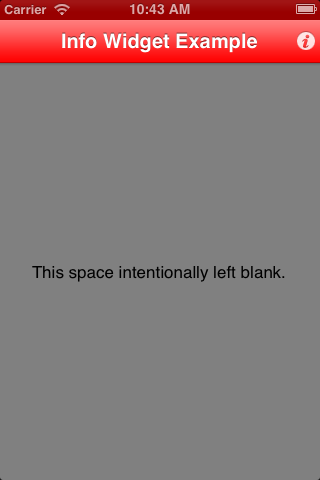
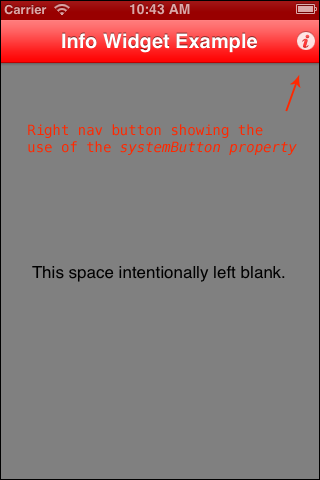
Update docs and make Alloy 1.0 compatible.
Update documentation.
Add resolution appropriate assets for the info icon.
Resize the label text to be resolution independent.
Add new screenshots to docs.
Update to Alloy 1.0

diff --git a/app/widgets/com.orthlieb.info/controllers/widget.js b/app/widgets/com.orthlieb.info/controllers/widget.js
@@ -1,4 +1,4 @@
-var args = _.defaults(arguments[0], { systemButton: Ti.UI.iPhone.SystemButton.INFO_LIGHT, icon: WPATH("Info.png") });
+var args = _.defaults(arguments[0], { });
 
 // Property: systemButton
 Object.defineProperty($, "systemButton", {
@@ -41,13 +41,16 @@ exports.init = function(parentWindow) {
         Ti.API.error("InfoButton: missing required parameter \'parent\'.");
     }
 
-    if (OS_IOS) {    
+    if (OS_IOS) {   
+        if (!$.systemButton && !$.icon)
+            $.systemButton = Ti.UI.iPhone.SystemButton.INFO_LIGHT;
+         
         // Info button: we remove it from it's parent and add to the right nav.
         parentWindow.remove($.button);
         parentWindow.rightNavButton = $.button;
         
         // Register events
-        $.button.on('click', function (e) {
+        $.button.addEventListener('click', function (e) {
             $.trigger('click', e);
         });
     } else if (OS_ANDROID) {
@@ -60,7 +63,8 @@ exports.init = function(parentWindow) {
                 title : $.text,
                 itemId : 7144
             });
-            menuItem.setIcon($.icon);
+            if ($.icon)
+                menuItem.setIcon($.icon);
             menuItem.addEventListener('click', function (e) {
                 $.trigger('click', e);
             });

diff --git a/app/widgets/com.orthlieb.info/docs/README.md b/app/widgets/com.orthlieb.info/docs/README.md
@@ -4,7 +4,7 @@
 The **Info** widget provides a convenience abstraction for a [right navigation](http://docs.appcelerator.com/titanium/latest/#!/api/Titanium.UI.Window-property-rightNavButton) button on iOS and the [options menu](http://docs.appcelerator.com/titanium/latest/#!/api/Titanium.Android.Activity-property-onCreateOptionsMenu) on Android. You would use the Info widget to provide information on the current window or a currently selected item in your UI.
 
 ![iPhone Info Button](img/Screen Shot 1.png)
-![Android Info Activity Menu](img/Screen Shot 2.png)
+![Android Info Options Menu](img/Screen Shot 2.png)
 
 ## Manifest
 * Version: 1.0 (stable)
@@ -39,7 +39,7 @@ You can style any of the defined properties of the widget through the parent .ts
 ```
 "#info": {
     systemButton: Ti.UI.iPhone.SystemButton.ACTION,
-    icon: "info.png", 
+    icon: "images/star.png", 
     text: "Ding?"
 }
 ```
@@ -52,10 +52,23 @@ You can style any of the defined properties of the widget through the parent .ts
 
 | Name | Type | Description | 
 | ---- | ---- | ----------- |
-| [systemButton] | *constant* | iOS only. Should be one of the defined types in [Ti.UI.iPhone.SystemButton](http://docs.appcelerator.com/titanium/latest/#!/api/Titanium.UI.iPhone.SystemButton). This property is overridden by the *systemButton* property (meaning that if you supply both, then *systemButton* takes precedence). Default if neither *systemButton* or *icon* are specified is [Ti.UI.iPhone.SystemButton.INFO_LIGHT](http://docs.appcelerator.com/titanium/latest/#!/api/Titanium.UI.iPhone.SystemButton).|
+| [systemButton] | *constant* | iOS only. Should be one of the defined types in [Ti.UI.iPhone.SystemButton](http://docs.appcelerator.com/titanium/latest/#!/api/Titanium.UI.iPhone.SystemButton). This property overrides the *icon* property (meaning that if you supply both, then *systemButton* takes precedence). Default if neither *systemButton* or *icon* are specified is [Ti.UI.iPhone.SystemButton.INFO_LIGHT](http://docs.appcelerator.com/titanium/latest/#!/api/Titanium.UI.iPhone.SystemButton).|
 | [icon] | *string* | Background image for the button specified as a local file path or URL. If the icon is not specified then no icon appears on Android, just the text. On iOS, this property is overridden by the *systemButton* property (meaning that if you supply both, then *systemButton* takes precedence). | 
 | [text] | *string* | Text to display in the options menu on Android. Default: "Info" |
 
+Note that if you want to supply an icon you should supply it at a resolution appropriate to the resolution of the device.
+
+| Platform | Resolution | Path | Size |
+| -------- | ---------- | ------ | ---- |
+| iOS | regular | app/assets/iphone/images/\<imagename\>.\<ext\> | 20 x 20 |
+| iOS | retina | app/assets/iphone/images/\<imagename\>@2x.\<ext\>] | 40 x 40 |
+| Android | low | app/assets/android/images/low/\<imagename\>.\<ext\> | 15 x 15 |
+| Android | medium | app/assets/android/images/medium/\<imagename\>.\<ext\> | 20 x 20 |
+| Android | high | app/assets/android/images/high/\<imagename\>.\<ext\> | 30 x 30 |
+| Android | xdpi | app/assets/android/images/res-xdpi/\<imagename\>.\<ext\> | 40 x 40 |
+ 
+You can use Photoshop or another image editing tool to accomplish this or use the handy [spork](https://github.com/appcelerator/spork) utility which will resize images for you automatically. 
+ 
 ### Methods
 
 #### init(parentWindow)
@@ -65,6 +78,12 @@ Initializes the info button, attaching it to the parent window right nav button 
 | Parameter | Type | Description | 
 | ---- | ---- | ----------- |
 | parentWindow | *TiUIWindow* | Parent window to attach the info button to. |
+
+For example:
+
+```
+$.info.init($.index);
+```
 
 ## Future Work
 
